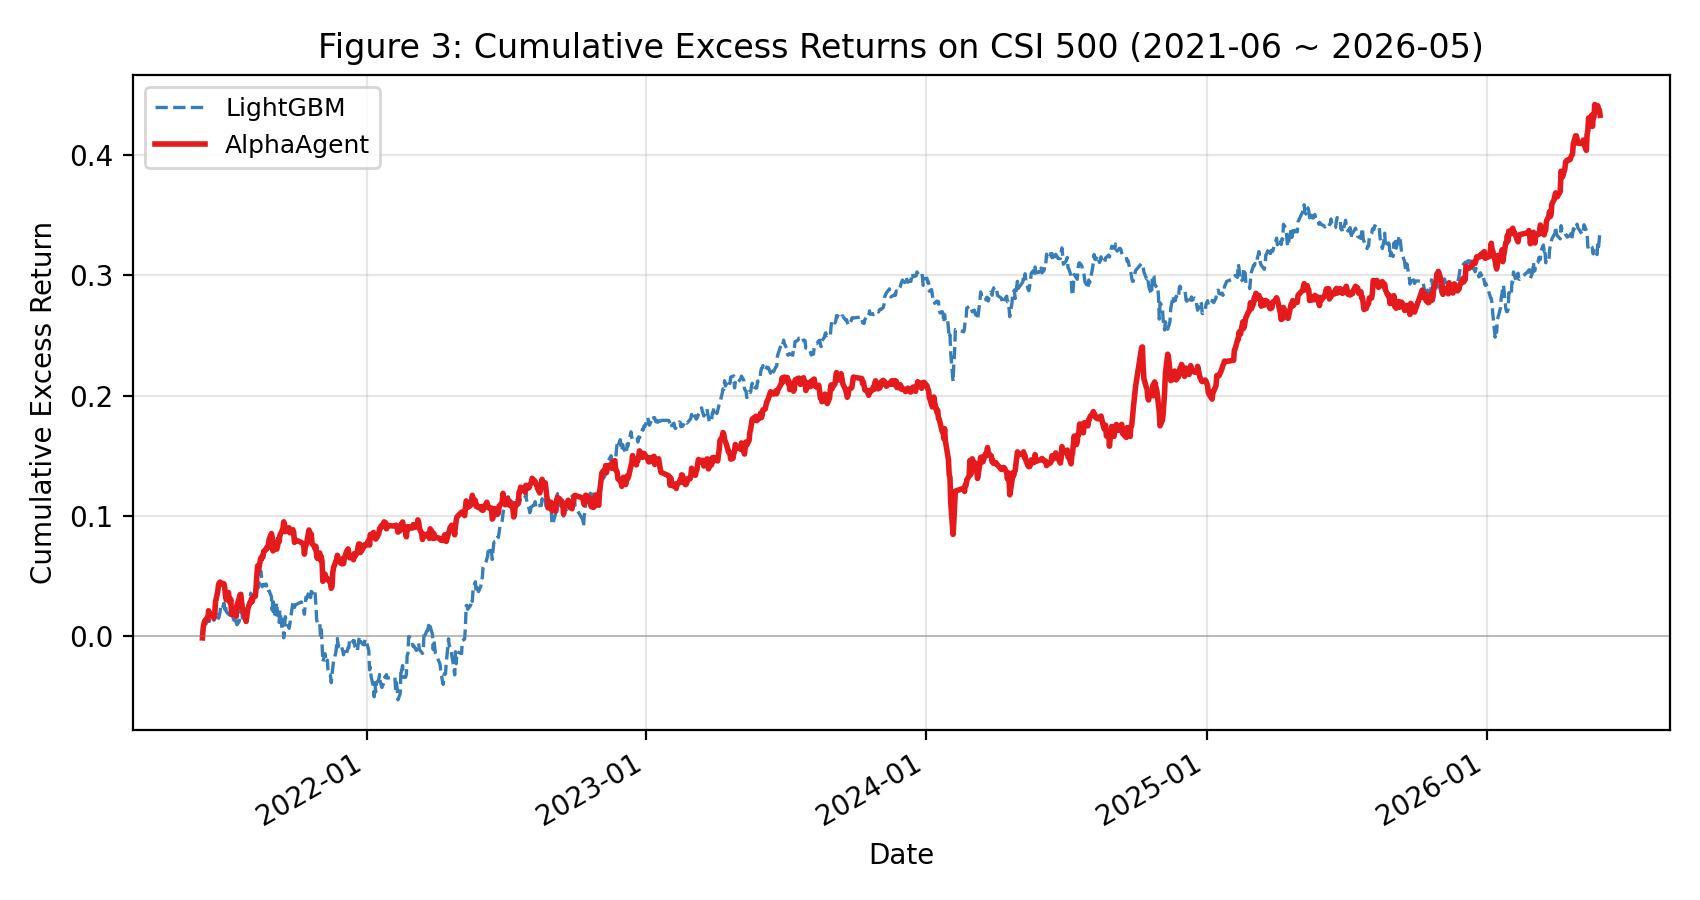
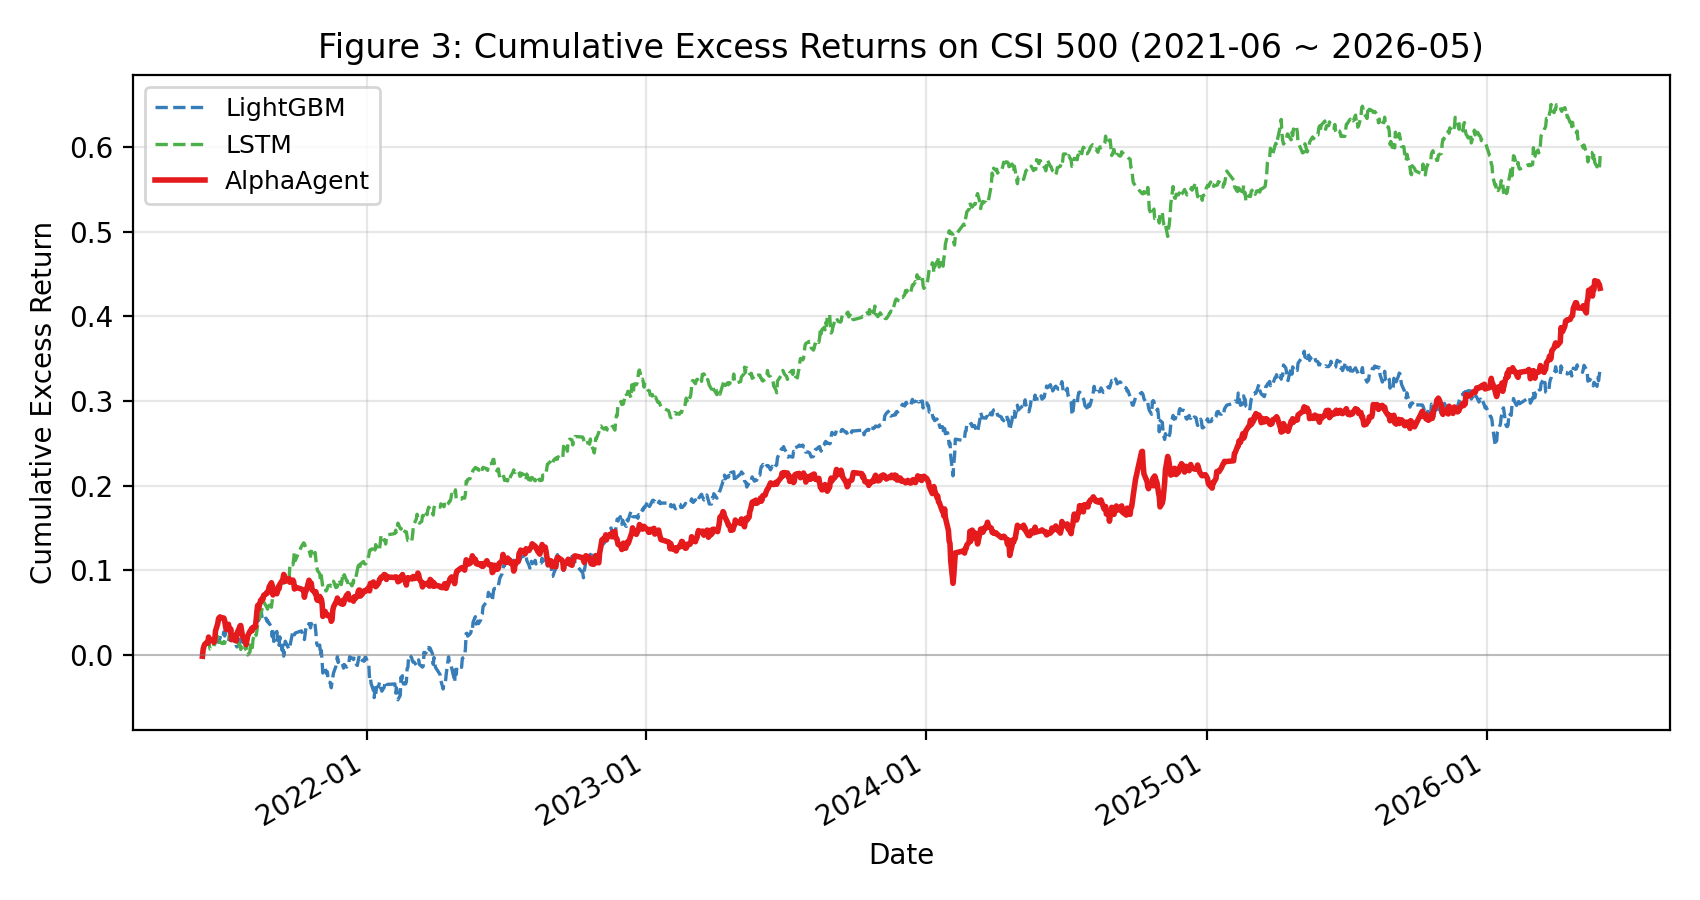
feat(figures): add LSTM (CSI500) — LSTM cum.excess 58.93% beats LightGBM 33.78%, AlphaAgent 43.31%

diff --git a/scripts/plot_figure3.py b/scripts/plot_figure3.py
@@ -26,7 +26,7 @@ FIG_DIR.mkdir(exist_ok=True)
 # entries here.
 METHOD_PKLS: dict[str, Path] = {
     "LightGBM":   REPO / "baselines/mlruns/209613909970893617/ea6406b82b904a8fba2832cf1290a856/artifacts/portfolio_analysis/report_normal_1day.pkl",
-    # "LSTM":       REPO / "baselines/mlruns/.../report_normal_1day.pkl",
+    "LSTM":       REPO / "baselines/mlruns/209613909970893617/426253fc7bcc4d0cadee1dfec21ed92a/artifacts/portfolio_analysis/report_normal_1day.pkl",
     # "Transformer":REPO / "baselines/mlruns/.../report_normal_1day.pkl",
     "AlphaAgent": REPO / "AlphaAgent/git_ignore_folder/RD-Agent_workspace/f1332f69e40e48f1bdbb0f9df7620854/mlruns/284224144358219592/38c38f8df6fe49ca99ddd3c22fe0f7a1/artifacts/portfolio_analysis/report_normal_1day.pkl",
     # "EliteAlpha": REPO / "...",

diff --git a/scripts/plot_figure4.py b/scripts/plot_figure4.py
@@ -45,6 +45,7 @@ WINDOW_END = "2026-05-31"
 # Where to look for per-method pred.pkl files; missing entries are skipped.
 PRED_PATHS: dict[str, Path] = {
     "Alpha158":   REPO / "baselines/mlruns/209613909970893617/ea6406b82b904a8fba2832cf1290a856/artifacts/pred.pkl",
+    "LSTM":       REPO / "baselines/mlruns/209613909970893617/426253fc7bcc4d0cadee1dfec21ed92a/artifacts/pred.pkl",
     "AlphaAgent": REPO / "AlphaAgent/git_ignore_folder/RD-Agent_workspace/f1332f69e40e48f1bdbb0f9df7620854/mlruns/284224144358219592/38c38f8df6fe49ca99ddd3c22fe0f7a1/artifacts/pred.pkl",
     # "EliteAlpha": REPO / "...",
 }
@@ -170,6 +171,7 @@ def evaluate_source(name: str, signal: pd.Series, label: pd.Series, auto_flip: b
 STYLE = {
     "RSI":        dict(color="#4daf4a", marker="s", linestyle="--", linewidth=1.4),
     "Alpha158":   dict(color="#377eb8", marker="o", linestyle="--", linewidth=1.4),
+    "LSTM":       dict(color="#984ea3", marker="v", linestyle="--", linewidth=1.4),
     "AlphaAgent": dict(color="#e41a1c", marker="^", linestyle="-",  linewidth=2.2),
     "EliteAlpha": dict(color="#000000", marker="D", linestyle="-",  linewidth=2.5),
 }